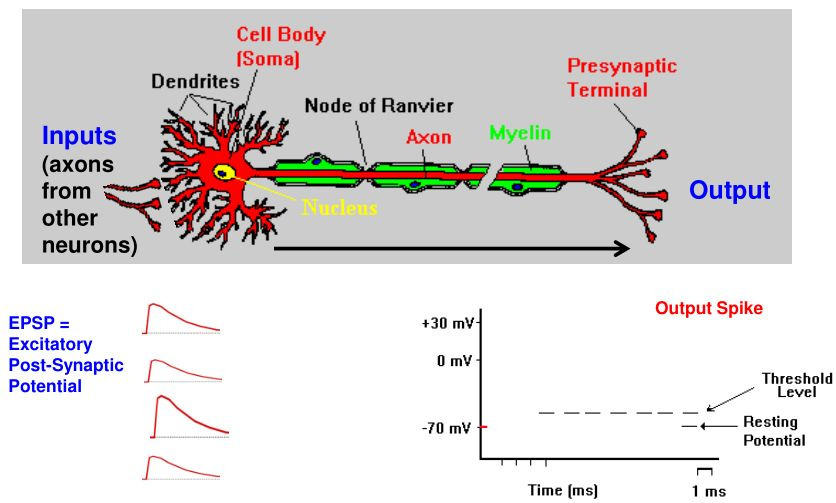
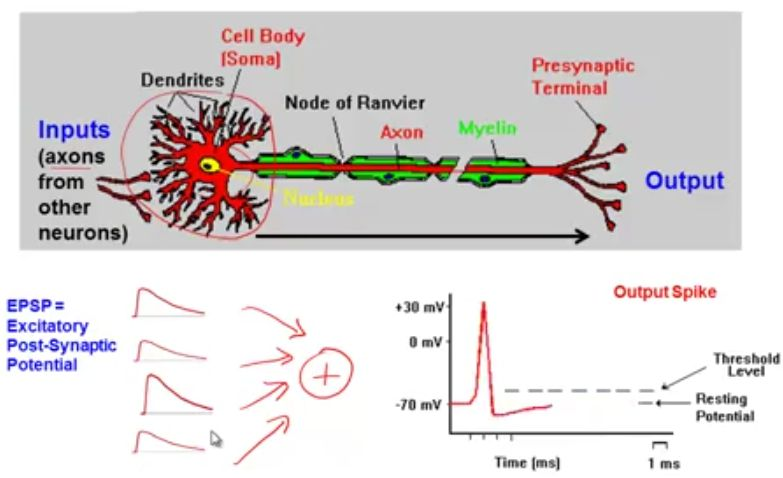
#5 - completed 1.4

diff --git a/cns.tex b/cns.tex
@@ -40,6 +40,8 @@
 
 \newacronym{gls:ML}{ML\glsadd{gls:mlm}}{\Gls{gls:mlm}}
 
+\newacronym{gls:EPSP}{EPSP}{Excitatory Post Synaptic Potential}
+
 \newglossaryentry{gls:eeg}{
 	name={Electroencephalography},
 	description={a method to record an electrogram of the spontaneous electrical activity of the brain. The biosignals detected by EEG have been shown to represent the postsynaptic potentials of pyramidal neurons in the neocortex and allocortex.[1] It is typically non-invasive, with the EEG electrodes placed along the scalp (commonly called "scalp EEG") using the International 10-20 system, or variations of it. Electrocorticography, involving surgical placement of electrodes, is sometimes called "intracranial EEG". Clinical interpretation of EEG recordings is most often performed by visual inspection of the tracing or quantitative EEG analysis.\cite{enwiki:1128901597}}}
@@ -227,15 +229,19 @@ What are the $RF_i$ that minimize the total squared pixelwise errors between $I$
 
 \subsection{The Electrical Personality of Neurons}
 
-The neuron doctrine:
+Originally there were two competing hypothesis:
 \begin{itemize}
-	\item the neuron is the fundamental structural \& functional unit of the brain;
-	\item neurons are discrete cells and not continuous with other cells;
-	\item information flows from the dendrites to the axon via the cell body.
+	\item the reticular hypothesis supposed that the brain was a continuous network;
+	\item the \emph{neuron doctrine}:
+	\begin{itemize}
+		\item the neuron is the fundamental structural \& functional unit of the brain;
+		\item neurons are discrete cells and not continuous with other cells;
+		\item information flows from the dendrites to the axon via the cell body.
+	\end{itemize}
 \end{itemize}
 
 \begin{figure}[H]
-	\caption[The idealized Neuron]{The idealized Neuron}
+	\caption[The idealized Neuron]{The idealized Neuron. The \gls{gls:EPSP}s are summed: if the sum reaches a threshold, we get an action potential, also known as a spike.}
 	\includegraphics[width=0.9\textwidth]{idealized-neuron}
 \end{figure}
 
@@ -245,7 +251,7 @@ The neuron doctrine:
 \end{figure}
 
 \begin{itemize}
-	\item  A “leaky bag of charged liquid”
+	\item  A ``leaky bag of charged liquid''
 	\item Contents of the neuron enclosed within a cell membrane
 	\item Cell membrane is a lipid bilayer
 	\begin{itemize}
@@ -260,62 +266,57 @@ The neuron doctrine:
 \end{figure}
 
 \begin{itemize}
-	\item Each neuron maintains a potential difference across its membrane
-	\item Inside is about –70 mV relative to outside
-	\item $Na^+$ \& $Cl^-$ higher outside;
-	$K^+$ and organic anions $A^-$	higher inside
-	\item Ionic pump maintains -70 mV difference by expelling $Na^+$ out
-	and allowing$K^+$ ions in
+	\item Each neuron maintains a potential difference across its membrane;
+	\item Inside is about –70 mV relative to outside;
+	\begin{itemize}
+		\item sodium and chloride higher outside
+		\item potassium and organic anions [$A^-$] higher inside
+	\end{itemize}
+	\item Ionic pump maintains -70 mV difference by expelling [$Na^+$] 
+	and allowing [$K^+$] ions in. A lot of the energy that we consume is used to operate ionic pump.
 \end{itemize}
 
 How can the electrical potential be changed in local regions of a neuron?
 
+\begin{figure}[H]
+	\caption[Ionic Channels: the Gate Keepers]{Ionic Channels: the Gate Keepers.  Ionic channels  are selective and 	allow only specific ions to pass through}\label{fig:ionic-channel}
+	\includegraphics[width=0.9\textwidth]{ionic-channel}
+\end{figure}
+
 \begin{itemize}
-	\item Ionic channels in membranes are 	proteins that are selective and
-	allow only specific ions to pass 	through
-	\item E.g. Pass Na + but not K + or Cl -
+	\item Ionic channels in membranes are proteins that are selective and allow only specific ions to pass through--Figure \ref{fig:ionic-channel}
+	\item E.g. Pass $Na^+$ but not $K^+$ or $Cl^-$.
 	\item Ionic channels are gated
 	\begin{itemize}
-		\item 	Voltage-gated: Probability of 	opening depends on membrane voltage
-		\item Chemically-gated: Binding to a 	chemical causes channel to open
+		\item 	Voltage-gated: Probability of opening depends on membrane voltage
+		\item Chemically-gated: Binding to a chemical causes channel to open--Figure \ref{fig:signalling}
 		\item Mechanically-gated: Sensitive to 	pressure or stretch
 	\end{itemize}
 \end{itemize}
 
 \begin{figure}[H]
-	\caption[Gated Channels allow Neuronal Signaling]{Gated Channels allow Neuronal Signaling}
+	\caption[Gated Channels allow Neuronal Signaling]{Gated Channels allow Neuronal Signaling. The junctions between neurons are known as ``synapses''}\label{fig:signalling}
 	\includegraphics[width=0.9\textwidth]{signalling}
 \end{figure}
 
 \begin{itemize}
-	\item Inputs from other neurons $\rightarrow$
-	chemically-gated channels (at
-	“synapses”) open  $\rightarrow$ Changes in
-	local membrane potential
-	\item This in turn causes opening/closing
-	of voltage-gated channels in
-	dendrites, body, and axon, resulting
-	in depolarization (positive change
-	in voltage) or hyperpolarization
-	(negative change in voltage)
-	\item Strong enough depolarization
-	causes a spike or “action potential”
+	\item Inputs from other neurons $\rightarrow$ 	chemically-gated channels (at
+	``synapse'') open  $\rightarrow$ Changes in local membrane potential
+	\item This in turn causes opening/closing 	of voltage-gated channels in 	dendrites, body, and axon, resulting 	in depolarization (positive change 	in voltage) or hyperpolarization	(negative change in voltage)
+	\item Strong enough depolarization	causes a spike or “action potential”
 \end{itemize}
+
 \begin{figure}[H]
-	\caption[The Output of a Neuron: Action Potential (Spike)]{The Output of a Neuron: Action Potential (Spike). Voltage-gated channels cause action potentials (spikes) Strong depolarization opens Na + channels, causing rapid
-		Na + influx and more channels to open, until they inactivate. K + outflux restores membrane potential}
-	\includegraphics[width=0.9\textwidth]{action-potential}
+	\caption[The Output of a Neuron: Action Potential (Spike)]{The Output of a Neuron: Action Potential (Spike). Voltage-gated channels cause action potentials (spikes) Strong depolarization opens $Na^+$ channels, causing rapid $Na^+$ influx and more channels to open, until they inactivate; $K^+$ outflux restores membrane potential. The shape of the action potential is stereotypical, so no information is propagated by the shape.}
+	\includegraphics[width=0.7\textwidth]{action-potential}
 \end{figure}
 
 \begin{figure}[H]
-	\caption[Propagation of a Spike along an Axon]{Propagation of a Spike along an Axon}
-	\includegraphics[width=0.9\textwidth]{propagation1}
+	\caption[Propagation of a Spike along an Axon]{Propagation of a Spike along an Axon. At each point, the $Na^+$ rushes in first, followed by the $K^+$ rushing out\cite{krantz2000PsychScholar}}
+	\includegraphics[width=0.7\textwidth]{propagation1}
 \end{figure}
 
-\begin{figure}[H]
-	\caption[Receptive Fields: a Mechanistic Model]{Receptive Fields: a Mechanistic Model}
-	\includegraphics[width=0.9\textwidth]{mech-rf}
-\end{figure}
+
 
 \begin{figure}[H]
 	\caption[Active Wiring: Myelination of Axons]{Active Wiring: Myelination of Axons. Myelin due to oligodendrocytes (glial cells) wrap axons and
@@ -351,16 +352,13 @@ How can the electrical potential be changed in local regions of a neuron?
 
 \begin{figure}[H]
 	\caption[An Excitatory Synapse]{An Excitatory Synapse. Input spike  $\rightarrow$
-		Neurotransmitter
-		release (e.g.,
+		Neurotransmitter 	release (e.g.,
 		Glutamate)  $\rightarrow$
 		Binds to ion channel
 		receptors $\rightarrow$
 		Ion channels open $\rightarrow$
 		Na+ influx  $\rightarrow$
-		Depolarization due to
-		EPSP (excitatory
-		postsynaptic potential)}
+		Depolarization due to \gls{gls:EPSP}}
 	\includegraphics[width=0.9\textwidth]{synapse4}
 \end{figure}
 
